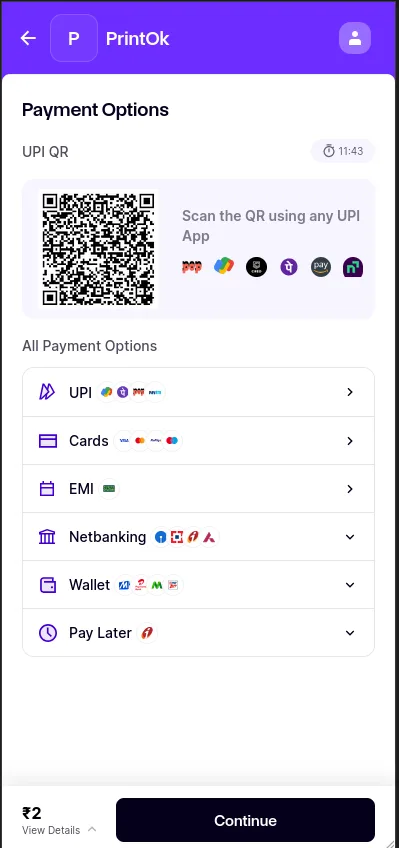
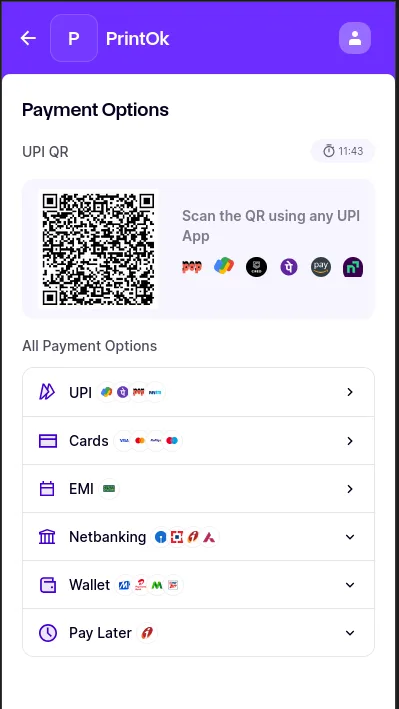
fix(landing): shorten the walkthrough captures to 9:16
The frames were at the handset's own ~9:19.5, which made each step taller than
the copy explaining it and left the section reading as a column of long strips.
The iPhone bezel and island went with it — the proportions were the point, not
a device mock-up.

The captures are re-cropped to 9:16 rather than squeezed into it, so nothing is
distorted: each one loses the dead space it carried below its content, and the
two that would have been cut mid-element are offset to keep the whole of what
they are there to show — the token step now includes its complete order status
rather than stopping partway down the table.

diff --git a/apps/customer-web/public/index.html b/apps/customer-web/public/index.html
@@ -98,13 +98,10 @@
       <ol class="walkthrough">
         <li class="walk-step">
           <figure class="walk-shot">
-            <div class="walk-screen walk-screen--paper">
-              <img src="/images/how-it-works/01-upload.webp" width="395" height="799"
+            <img src="/images/how-it-works/01-upload.webp" width="395" height="702"
                  loading="lazy" decoding="async"
                  alt="The PrintOk upload screen on a phone: the shop's name in the header
-                      and a dashed drop area reading Tap or Drop Document Here.">
-            </div>
-          </figure>
+                      and a dashed drop area reading Tap or Drop Document Here."></figure>
           <div class="walk-copy">
             <span class="walk-num">1</span>
             <h3>Scan and upload</h3>
@@ -115,13 +112,10 @@
 
         <li class="walk-step">
           <figure class="walk-shot">
-            <div class="walk-screen walk-screen--paper">
-              <img src="/images/how-it-works/02-preview.webp" width="390" height="855"
+            <img src="/images/how-it-works/02-preview.webp" width="390" height="693"
                  loading="lazy" decoding="async"
                  alt="The uploaded PDF listed with its page count and size, above a preview
-                      showing the first page rendered, with next and previous controls.">
-            </div>
-          </figure>
+                      showing the first page rendered, with next and previous controls."></figure>
           <div class="walk-copy">
             <span class="walk-num">2</span>
             <h3>Check the document</h3>
@@ -132,14 +126,11 @@
 
         <li class="walk-step">
           <figure class="walk-shot">
-            <div class="walk-screen walk-screen--paper">
-              <img src="/images/how-it-works/03-configure.webp" width="400" height="864"
+            <img src="/images/how-it-works/03-configure.webp" width="400" height="711"
                  loading="lazy" decoding="async"
                  alt="Print options on a phone: page range, black and white or colour,
                       single or double sided, paper size and copies, with a running total
-                      above the pay buttons.">
-            </div>
-          </figure>
+                      above the pay buttons."></figure>
           <div class="walk-copy">
             <span class="walk-num">3</span>
             <h3>Choose, and see the price</h3>
@@ -150,13 +141,10 @@
 
         <li class="walk-step">
           <figure class="walk-shot">
-            <div class="walk-screen walk-screen--violet">
-              <img src="/images/how-it-works/04-checkout.webp" width="392" height="853"
+            <img src="/images/how-it-works/04-checkout.webp" width="392" height="696"
                  loading="lazy" decoding="async"
                  alt="The Razorpay checkout opening on the phone, showing the PrintOk name,
-                      the amount due and a field for the customer's mobile number.">
-            </div>
-          </figure>
+                      the amount due and a field for the customer's mobile number."></figure>
           <div class="walk-copy">
             <span class="walk-num">4</span>
             <h3>Pay on their own phone</h3>
@@ -167,13 +155,10 @@
 
         <li class="walk-step">
           <figure class="walk-shot">
-            <div class="walk-screen walk-screen--violet">
-              <img src="/images/how-it-works/05-pay.webp" width="399" height="848"
+            <img src="/images/how-it-works/05-pay.webp" width="399" height="709"
                  loading="lazy" decoding="async"
                  alt="Razorpay payment options: a UPI QR code to scan with any UPI app,
-                      plus cards, EMI, netbanking, wallets and pay later.">
-            </div>
-          </figure>
+                      plus cards, EMI, netbanking, wallets and pay later."></figure>
           <div class="walk-copy">
             <span class="walk-num">5</span>
             <h3>Any UPI app, or a card</h3>
@@ -184,14 +169,11 @@
 
         <li class="walk-step">
           <figure class="walk-shot">
-            <div class="walk-screen walk-screen--paper">
-              <img src="/images/how-it-works/06-token.webp" width="391" height="858"
+            <img src="/images/how-it-works/06-token.webp" width="391" height="695"
                  loading="lazy" decoding="async"
                  alt="The confirmation screen showing a large print token number, and an
                       order status tracker moving through job created, payment verified,
-                      sent to printer and print complete.">
-            </div>
-          </figure>
+                      sent to printer and print complete."></figure>
           <div class="walk-copy">
             <span class="walk-num">6</span>
             <h3>They collect by token</h3>

diff --git a/apps/customer-web/public/styles.css b/apps/customer-web/public/styles.css
@@ -2825,66 +2825,33 @@ body::before {
   gap: 14px;
 }
 
-/* The handset itself: a bezel with the screen inset, at the 19.5:9 of a modern
-   iPhone. One fixed frame for every step, so the captions line up across a row
-   — the captures vary slightly in aspect ratio, and letting each set its own
-   height staggered every caption against its neighbour. */
+/* One fixed frame for every step, so the captions line up across a row: the
+   captures vary slightly in aspect ratio, and letting each set its own height
+   staggered every caption against its neighbour.
+
+   9:16 rather than the phone's own ~9:19.5. The captures are cropped to match,
+   trimming the dead space each one carried below its content — at full handset
+   proportions the steps were taller than the copy explaining them, and the
+   section read as a column of long strips. */
 .walk-shot {
-  margin: 0 auto;
-  /* Capped: at full column width a phone is taller than the copy it
-     illustrates, and the section stops being scannable. */
-  max-width: 268px;
-  aspect-ratio: 9 / 19.5;
-  background: var(--color-black);
+  margin: 0 auto 0;
+  max-width: 300px;
+  aspect-ratio: 9 / 16;
   border: 3px solid var(--color-border);
-  border-radius: 40px;
+  border-radius: 14px;
+  /* The captures are of a light phone screen, so the frame stays light in dark
+     mode too — inverting it would misrepresent what the customer sees. */
+  background: #fff;
   box-shadow: 5px 5px 0 var(--color-border);
-  padding: 8px;
-}
-
-.walk-screen {
-  position: relative;
-  height: 100%;
-  /* The captures are of a light phone screen, so the screen stays light in dark
-     mode too — inverting it would misrepresent what the customer sees.
-     The status strip takes the colour the capture itself has along its top
-     edge, so the reserved band reads as part of the screen rather than as a
-     white bar sitting above a purple checkout. */
-  background: linear-gradient(var(--screen-top, #fff) 30px, #fff 30px);
-  border-radius: 33px;
   overflow: hidden;
-  display: flex;
-  flex-direction: column;
-  /* Reserves the strip the island sits in, so the pill never covers the
-     screenshot underneath it. */
-  padding-top: 30px;
 }
 
-/* Sampled from the top edge of each capture. */
-.walk-screen--paper  { --screen-top: #f5f2ec; }
-.walk-screen--violet { --screen-top: #6d2efe; }
-
-/* Dynamic Island. Decorative: it carries no information, and a screen reader
-   announcing it would only add noise between the steps. */
-.walk-screen::before {
-  content: '';
-  position: absolute;
-  top: 9px;
-  left: 50%;
-  transform: translateX(-50%);
-  width: 32%;
-  height: 16px;
-  border-radius: 999px;
-  background: var(--color-black);
-}
-
-.walk-screen img {
+.walk-shot img {
   display: block;
-  flex: 1;
-  min-height: 0;
   width: 100%;
-  /* contain, never cover: a crop would cut the running total off the bottom of
-     the pricing step, which is the one thing that step exists to show. */
+  height: 100%;
+  /* The crops are already 9:16, so this only guards a future capture at a
+     different size — it would letterbox rather than cut content out. */
   object-fit: contain;
   object-position: top center;
 }
